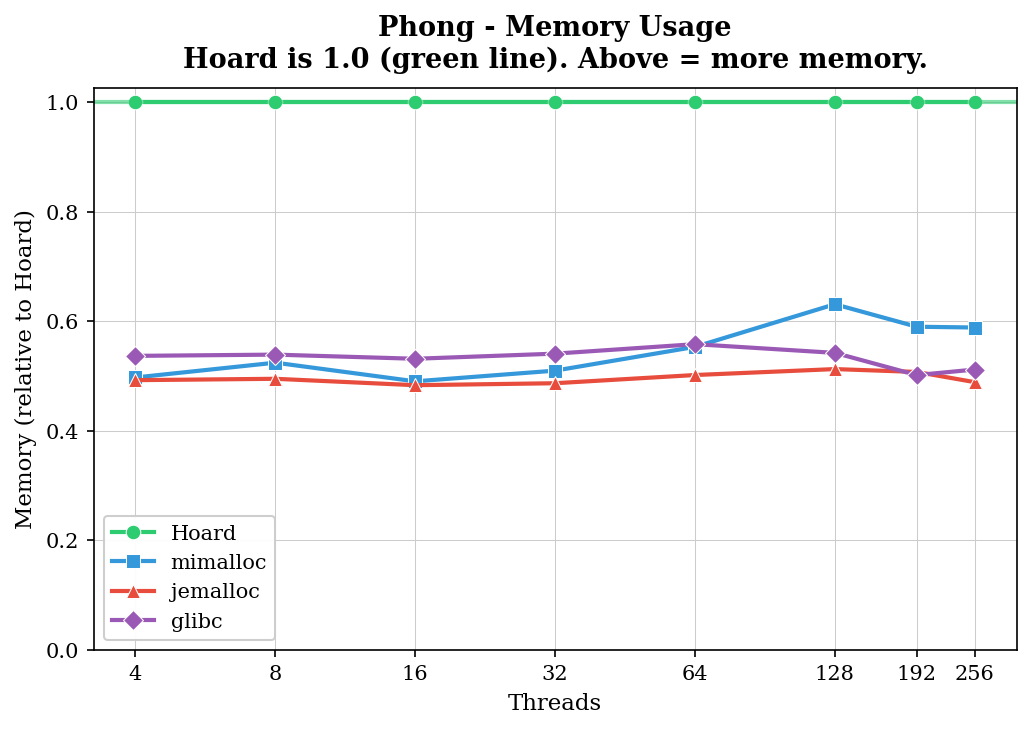
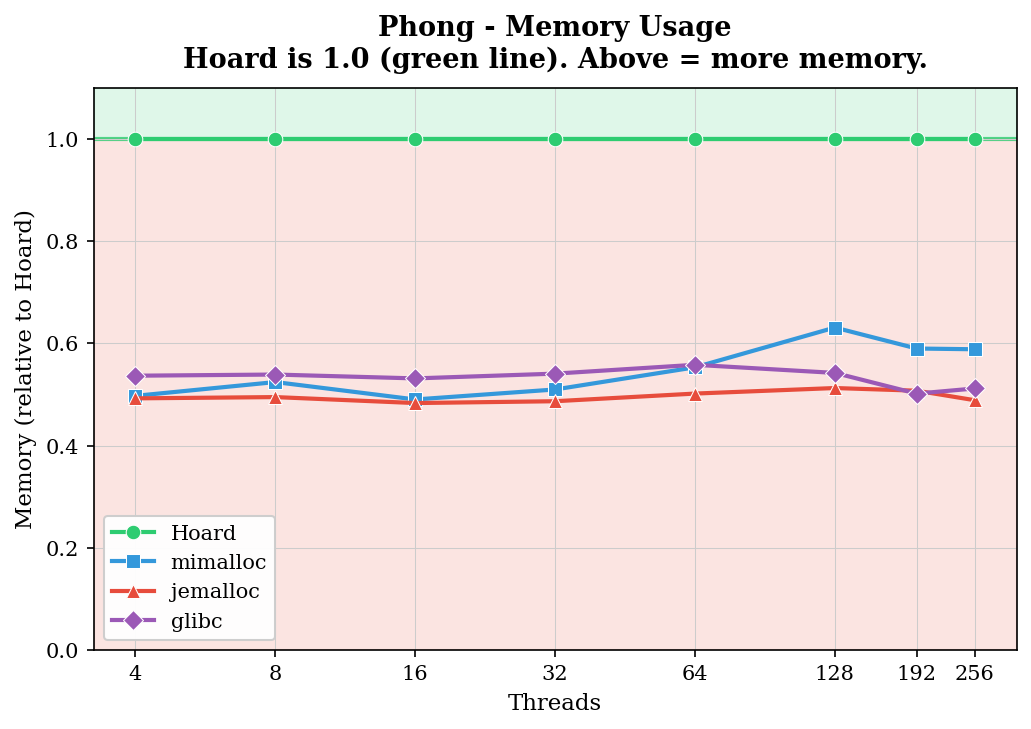
Add green/pink shading to benchmark graphs
Green shading above the Hoard baseline (1.0) indicates Hoard performs
better (other allocators are slower or use more memory). Pink shading
below indicates Hoard performs worse.

diff --git a/doc/generate_benchmarks.py b/doc/generate_benchmarks.py
@@ -134,6 +134,14 @@ def plot_single_graph(threads, data, title, ylabel_left, filename, show_legend=T
 
     norm_data = normalize_to_hoard(data)
 
+    # Find max y value for shading
+    all_vals = [v for values in norm_data.values() for v in values]
+    y_max = max(all_vals) * 1.1
+
+    # Shade regions: above 1.0 = Hoard better (green), below 1.0 = Hoard worse (pink)
+    ax.axhspan(1.0, y_max, alpha=0.15, color='#2ecc71', zorder=0)  # Green above
+    ax.axhspan(0, 1.0, alpha=0.15, color='#e74c3c', zorder=0)      # Pink/red below
+
     for name in ALLOCATORS:
         ax.plot(threads, norm_data[name],
                 marker=MARKERS[name],
@@ -142,10 +150,11 @@ def plot_single_graph(threads, data, title, ylabel_left, filename, show_legend=T
                 markersize=7,
                 label=name,
                 markeredgecolor='white',
-                markeredgewidth=0.5)
+                markeredgewidth=0.5,
+                zorder=2)
 
     # Hoard reference line at 1.0
-    ax.axhline(y=1.0, color=COLORS['Hoard'], linestyle='-', alpha=0.6, linewidth=2)
+    ax.axhline(y=1.0, color=COLORS['Hoard'], linestyle='-', alpha=0.8, linewidth=2, zorder=1)
 
     ax.set_xlabel('Threads')
     ax.set_ylabel(ylabel_left)
@@ -157,7 +166,7 @@ def plot_single_graph(threads, data, title, ylabel_left, filename, show_legend=T
     ax.set_xscale('log', base=2)
     ax.set_xticks(threads)
     ax.set_xticklabels([str(t) for t in threads])
-    ax.set_ylim(bottom=0)
+    ax.set_ylim(bottom=0, top=y_max)
 
     plt.tight_layout()
     save_fig(fig, filename)
@@ -209,6 +218,14 @@ def plot_summary_panel(ax, threads, data, title):
     """Plot a single panel for the summary graph."""
     norm_data = normalize_to_hoard(data)
 
+    # Find max y value for shading
+    all_vals = [v for values in norm_data.values() for v in values]
+    y_max = max(all_vals) * 1.1
+
+    # Shade regions: above 1.0 = Hoard better (green), below 1.0 = Hoard worse (pink)
+    ax.axhspan(1.0, y_max, alpha=0.15, color='#2ecc71', zorder=0)  # Green above
+    ax.axhspan(0, 1.0, alpha=0.15, color='#e74c3c', zorder=0)      # Pink/red below
+
     for name in ALLOCATORS:
         ax.plot(threads, norm_data[name],
                 marker=MARKERS[name],
@@ -217,16 +234,17 @@ def plot_summary_panel(ax, threads, data, title):
                 markersize=6,
                 label=name,
                 markeredgecolor='white',
-                markeredgewidth=0.5)
+                markeredgewidth=0.5,
+                zorder=2)
 
-    ax.axhline(y=1.0, color=COLORS['Hoard'], linestyle='-', alpha=0.6, linewidth=2)
+    ax.axhline(y=1.0, color=COLORS['Hoard'], linestyle='-', alpha=0.8, linewidth=2, zorder=1)
     ax.set_xlabel('Threads')
     ax.set_ylabel('Relative to Hoard')
     ax.set_title(title, fontweight='bold', pad=8)
     ax.set_xscale('log', base=2)
     ax.set_xticks(threads)
     ax.set_xticklabels([str(t) for t in threads], fontsize=9)
-    ax.set_ylim(bottom=0)
+    ax.set_ylim(bottom=0, top=y_max)
 
 plot_summary_panel(axes[0, 0], larson_threads, larson_time, 'Larson')
 plot_summary_panel(axes[0, 1], threadtest_threads, threadtest_time, 'threadtest')
